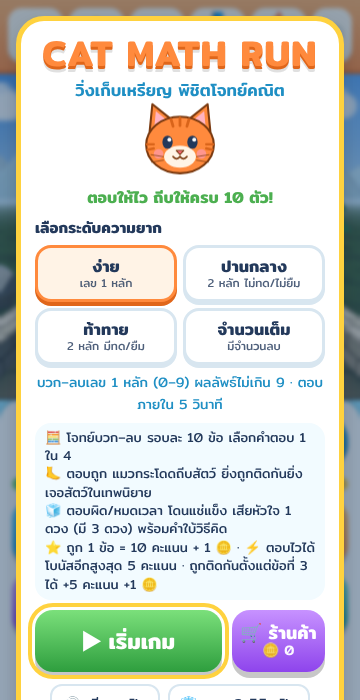
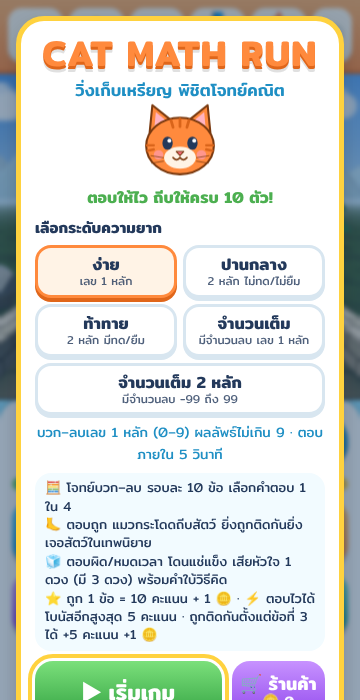
Add files via upload

Changed region(s): [[0.0611, 0.36, 0.9167, 1.0], [0.3972, 0.15, 0.6111, 0.27]]

diff --git a/index.html b/index.html
@@ -168,8 +168,11 @@
   @keyframes float{50%{transform:translateY(-8px)}}
   .tagline{margin:2px 0 8px; font-size:1.1rem; font-weight:600; color:var(--green)}
   .pick-label{font-weight:600; font-size:.95rem; margin:0 0 6px; text-align:left}
-  .levels{display:grid; grid-template-columns:repeat(4,1fr); gap:6px; margin:0 0 6px}
-  @media (max-width:420px){ .levels{grid-template-columns:repeat(2,1fr)} .level-btn{padding:6px 4px} }
+  /* 5 ระดับ: แถวบน 3 ปุ่ม (ง่าย/ปานกลาง/ท้าทาย) แถวล่าง 2 ปุ่ม (จำนวนเต็ม 1 หลัก/2 หลัก) */
+  .levels{display:grid; grid-template-columns:repeat(6,1fr); gap:6px; margin:0 0 6px}
+  .levels .level-btn{grid-column:span 2}
+  .levels .level-btn.int{grid-column:span 3}
+  @media (max-width:420px){ .levels{grid-template-columns:repeat(2,1fr)} .levels .level-btn,.levels .level-btn.int{grid-column:span 1; padding:6px 4px} .levels .level-btn.int.int2{grid-column:span 2} }
   .level-btn{
     border:3px solid #d8e6f0; background:#fff; border-radius:16px; padding:8px 4px; font-size:1.02rem; font-weight:600;
     color:var(--navy); line-height:1.25; box-shadow:0 3px 0 #d8e6f0;
@@ -412,7 +415,8 @@
         <button class="level-btn" type="button" data-level="easy" aria-pressed="true">ง่าย<small>เลข 1 หลัก</small></button>
         <button class="level-btn" type="button" data-level="medium" aria-pressed="false">ปานกลาง<small>2 หลัก ไม่ทด/ไม่ยืม</small></button>
         <button class="level-btn" type="button" data-level="hard" aria-pressed="false">ท้าทาย<small>2 หลัก มีทด/ยืม</small></button>
-        <button class="level-btn" type="button" data-level="integer" aria-pressed="false">จำนวนเต็ม<small>มีจำนวนลบ</small></button>
+        <button class="level-btn int" type="button" data-level="integer" aria-pressed="false">จำนวนเต็ม<small>มีจำนวนลบ เลข 1 หลัก</small></button>
+        <button class="level-btn int int2" type="button" data-level="integer2" aria-pressed="false">จำนวนเต็ม 2 หลัก<small>มีจำนวนลบ −99 ถึง 99</small></button>
       </div>
       <div class="level-desc" id="levelDesc"></div>
       <ul class="rules">
@@ -551,7 +555,9 @@
       medium:  { name: 'ปานกลาง',  detail: 'บวก–ลบเลข 2 หลัก ไม่มีการทด/ไม่มีการยืม ผลลัพธ์ไม่เกิน 99', time: 7000,  min: 0, max: 99 },
       hard:    { name: 'ท้าทาย',    detail: 'บวก–ลบเลข 2 หลัก มีการทด/มีการยืม ผลลัพธ์ไม่เกิน 99',     time: 10000, min: 0, max: 99 },
       // range = ขนาดสูงสุดของตัวเลขแต่ละตัว (−range ถึง range) ผลลัพธ์จึงอยู่ระหว่าง −2×range ถึง 2×range
-      integer: { name: 'จำนวนเต็ม', detail: 'บวก–ลบจำนวนเต็มบวกและลบ (−10 ถึง 10) เช่น (−5) + 3, 4 − (−6)', time: 8000, min: -20, max: 20, range: 10 }
+      integer: { name: 'จำนวนเต็ม', detail: 'บวก–ลบจำนวนเต็มบวกและลบ (−10 ถึง 10) เช่น (−5) + 3, 4 − (−6)', time: 8000, min: -20, max: 20, range: 10 },
+      // จำนวนเต็ม 2 หลัก: ตัวเลขทั้งสองตัวเป็นเลข 2 หลัก (ค่าสัมบูรณ์ 10–99) และคำตอบอยู่ระหว่าง −99 ถึง 99
+      integer2: { name: 'จำนวนเต็ม 2 หลัก', detail: 'บวก–ลบจำนวนเต็ม 2 หลัก (−99 ถึง 99) เช่น (−45) + 27, 38 − (−16)', time: 15000, min: -99, max: 99, range: 99, minAbs: 10 }
     }
   };
 
@@ -610,6 +616,9 @@
   ];
   function skinById(id) { for (var i = 0; i < CFG.SKINS.length; i++) if (CFG.SKINS[i].id === id) return CFG.SKINS[i]; return null; }
 
+  /** ระดับจำนวนเต็ม (มีจำนวนลบ) ทั้งแบบ 1 หลักและ 2 หลัก */
+  function isIntLevel(level) { return level === 'integer' || level === 'integer2'; }
+
   var STATE = { READY: 'READY', PLAYING: 'PLAYING', ANSWERED: 'ANSWERED', GAME_OVER: 'GAME_OVER', VICTORY: 'VICTORY' };
 
   /* =====================================================================
@@ -644,17 +653,21 @@
      * - hard  : ตัวตั้ง 10–99, ตัวบวก/ตัวลบ 1–99, ผลบวก ≤ 99, ต้องมีการทด / ต้องมีการยืม, ผลลบ ≥ 0
      * - integer: ตัวเลข −10 ถึง 10 ทุกข้อต้องมีจำนวนลบอย่างน้อย 1 จุด (ตัวตั้ง ตัวบวก/ตัวลบ หรือคำตอบ)
      *            ตัดโจทย์ที่ง่ายเกินไป: มี 0 เป็นตัวเลขตัวใดตัวหนึ่ง
+     * - integer2: ตัวตั้งและตัวบวก/ตัวลบเป็นเลข 2 หลัก (−99 ถึง −10 หรือ 10 ถึง 99) คำตอบ −99 ถึง 99
+     *            และทุกข้อต้องมีจำนวนลบอย่างน้อย 1 จุด
      */
     validPairs: function (level, op) {
       var key = level + op;
       if (MathCore.cache[key]) return MathCore.cache[key];
       var list = [], a, b;
-      if (level === 'integer') {
-        var R = CFG.LEVELS.integer.range;
+      if (isIntLevel(level)) {
+        var L = CFG.LEVELS[level], R = L.range, mA = L.minAbs || 1;
         for (a = -R; a <= R; a++) {
+          if (Math.abs(a) < mA) continue;
           for (b = -R; b <= R; b++) {
-            if (a === 0 || b === 0) continue;
+            if (Math.abs(b) < mA) continue;
             var ans = op === '+' ? a + b : a - b;
+            if (ans < L.min || ans > L.max) continue;
             if (a < 0 || b < 0 || ans < 0) list.push([a, b]);
           }
         }
@@ -699,7 +712,7 @@
         if (v !== Math.floor(v) || v < min || v > max || v === q.answer || Object.prototype.hasOwnProperty.call(kindOf, v)) return;
         kindOf[v] = kind; list.push(v);
       }
-      if (q.level === 'integer') {
+      if (isIntLevel(q.level)) {
         add(errs, -q.answer, 'sign');                                           // เครื่องหมายผิด
         var sb = q.op === '+' ? q.b : -q.b;                                     // เขียนใหม่เป็นการบวก: a + sb
         if ((q.a < 0) !== (sb < 0)) {                                           // เครื่องหมายต่างกัน แต่เอาค่ามาบวกกัน
@@ -725,7 +738,7 @@
         }
       }
       add(near, q.answer - 1, 'near'); add(near, q.answer + 1, 'near'); add(near, q.answer - 2, 'near'); add(near, q.answer + 2, 'near');
-      if (q.level === 'medium' || q.level === 'hard') { add(near, q.answer - 10, 'tens'); add(near, q.answer + 10, 'tens'); }
+      if (q.level === 'medium' || q.level === 'hard' || q.level === 'integer2') { add(near, q.answer - 10, 'tens'); add(near, q.answer + 10, 'tens'); }
       MathCore.shuffle(errs); MathCore.shuffle(near);
       var pick = errs.slice(0, Math.min(2, n));
       for (var i = 0; pick.length < n && i < near.length; i++) pick.push(near[i]);
@@ -834,7 +847,7 @@
     diagnose: function (q, kind) {
       switch (kind) {
         case 'near': return 'คำตอบคลาดไปเล็กน้อย ลองคิดทีละขั้นอีกครั้ง';
-        case 'tens': return 'หลักหน่วยถูกแล้ว แต่หลักสิบคลาดไป 10';
+        case 'tens': return 'หลักหน่วยถูกแล้ว แต่หลักสิบคลาดไป 10 ลองตรวจการทด/การยืมอีกครั้ง';
         case 'carry': return 'ลืมทด 1 ไปหลักสิบ';
         case 'place': return 'ตั้งหลักไม่ตรง: ' + q.b + ' อยู่หลักหน่วย ต้องบวกกับหลักหน่วย';
         case 'borrow': return 'หลักหน่วยลบไม่พอ ต้องยืม 1 สิบมาก่อน ไม่ใช่เอาเลขน้อยลบเลขมาก';
@@ -848,10 +861,21 @@
     },
     strategy: function (q) {
       var a = q.a, b = q.b, ans = q.answer;
-      if (q.level === 'integer') {
+      if (isIntLevel(q.level)) {
         var step = q.op === '+' ? b : -b;
         var pre = q.op === '-' ? 'ลบ ' + fmtTerm(b) + ' คือบวก ' + fmtTerm(-b) + ' · ' : '';
-        return pre + 'เริ่มที่ ' + fmtNum(a) + ' เดินไปทาง' + (step > 0 ? 'ขวา ' : 'ซ้าย ') + Math.abs(step) + ' ช่อง ถึง ' + fmtNum(ans);
+        if (q.level === 'integer') {
+          return pre + 'เริ่มที่ ' + fmtNum(a) + ' เดินไปทาง' + (step > 0 ? 'ขวา ' : 'ซ้าย ') + Math.abs(step) + ' ช่อง ถึง ' + fmtNum(ans);
+        }
+        // เลข 2 หลัก: ใช้กฎเครื่องหมาย (เดินทีละช่องบนเส้นจำนวนไม่สะดวก)
+        var x = Math.abs(a), y = Math.abs(step);
+        if ((a < 0) === (step < 0)) {
+          return pre + 'เครื่องหมายเหมือนกัน: รวมค่า ' + x + ' + ' + y + ' = ' + (x + y) + ' แล้วใช้เครื่องหมายเดิม (' + (a < 0 ? 'ลบ' : 'บวก') + ') → ' + fmtNum(ans);
+        }
+        if (x === y) return pre + 'ค่าเท่ากันแต่เครื่องหมายต่างกัน หักล้างกันได้ → ' + fmtNum(ans);
+        var bigV = x > y ? a : step;
+        return pre + 'เครื่องหมายต่างกัน: เอาค่ามากลบค่าน้อย ' + Math.max(x, y) + ' − ' + Math.min(x, y) + ' = ' + Math.abs(x - y) +
+          ' แล้วใช้เครื่องหมายของ ' + fmtNum(bigV) + ' เพราะอยู่ห่างจาก 0 มากกว่า → ' + fmtNum(ans);
       }
       if (q.level === 'easy') {
         if (q.op === '+') {
@@ -873,30 +897,53 @@
       if (ua < ub) return 'หลักหน่วย ' + ua + ' ลบ ' + ub + ' ไม่พอ ยืม 1 สิบ: ' + (ua + 10) + ' − ' + ub + ' = ' + (ua + 10 - ub) + ' · หลักสิบ ' + ta + ' − 1 − ' + tb + ' = ' + (ta - 1 - tb) + ' → ' + ans;
       return 'หลักหน่วย ' + ua + ' − ' + ub + ' = ' + (ua - ub) + ' · หลักสิบ ' + ta + ' − ' + tb + ' = ' + (ta - tb) + ' → ' + ans;
     },
-    /** เส้นจำนวน (SVG) สำหรับระดับจำนวนเต็ม: จุดเริ่ม ลูกศรเดิน และจุดคำตอบ */
+    /**
+     * เส้นจำนวน (SVG) สำหรับระดับจำนวนเต็ม: จุดเริ่ม ลูกศรเดิน และจุดคำตอบ
+     * เลข 1 หลักมีขีดทุก 1 ช่อง · ช่วงกว้าง (เลข 2 หลัก) มีขีดทุก 10 ช่อง
+     */
     numberLine: function (q) {
       var start = q.a, step = q.op === '+' ? q.b : -q.b, end = start + step;
-      var lo = Math.min(start, end, 0) - 1, hi = Math.max(start, end, 0) + 1;
-      while (hi - lo < 10) { lo--; if (hi - lo < 10) hi++; }
-      var W = 640, H = 96, pad = 22, dx = (W - pad * 2) / (hi - lo), y = 62;
-      function X(v) { return (pad + (v - lo) * dx).toFixed(1); }
+      var mn = Math.min(start, end, 0), mx = Math.max(start, end, 0), unit = mx - mn > 30 ? 10 : 1, lo, hi;
+      if (unit === 1) {
+        lo = mn - 1; hi = mx + 1;
+        while (hi - lo < 10) { lo--; if (hi - lo < 10) hi++; }
+      } else {
+        lo = Math.floor(mn / 10) * 10 - 10; hi = Math.ceil(mx / 10) * 10 + 10;
+      }
+      var W = 640, H = 120, pad = 22, dx = (W - pad * 2) / (hi - lo), y = 62;
+      function X(v) { return pad + (v - lo) * dx; }
       var out = '<svg viewBox="0 0 ' + W + ' ' + H + '" xmlns="http://www.w3.org/2000/svg" role="img" aria-label="เส้นจำนวน เริ่มที่ ' +
         speakNum(start) + ' เดิน ' + (step > 0 ? 'ไปทางขวา ' : 'ไปทางซ้าย ') + Math.abs(step) + ' ช่อง ถึง ' + speakNum(end) + '">';
       out += '<defs><marker id="nlArrow" viewBox="0 0 10 10" refX="8" refY="5" markerWidth="7" markerHeight="7" orient="auto-start-reverse">' +
         '<path d="M0 0 L10 5 L0 10 z" fill="#ff8a3d"/></marker></defs>';
       out += '<line x1="' + (pad - 8) + '" y1="' + y + '" x2="' + (W - pad + 8) + '" y2="' + y + '" stroke="#23395b" stroke-width="3"/>';
-      for (var v = lo; v <= hi; v++) {
-        var key = v === 0 || v === start || v === end, h = key ? 9 : 5;
-        out += '<line x1="' + X(v) + '" y1="' + (y - h) + '" x2="' + X(v) + '" y2="' + (y + h) + '" stroke="#23395b" stroke-width="' + (v === 0 ? 3 : 1.6) + '"/>';
-        if (key || v % 5 === 0) {
-          out += '<text x="' + X(v) + '" y="' + (y + 28) + '" font-size="' + (key ? 20 : 15) + '" font-weight="' + (key ? 700 : 400) +
-            '" text-anchor="middle" fill="' + (v === end ? '#2e9e3e' : '#23395b') + '">' + fmtNum(v) + '</text>';
+      // ป้ายของจุดสำคัญ (0, จุดเริ่ม, คำตอบ) ถ้าอยู่ใกล้กันเกินไปจะเลื่อนลงแถวที่สอง
+      var keys = [0, start, end].filter(function (v, i, arr) { return arr.indexOf(v) === i; }).sort(function (p, r) { return p - r; });
+      var keyX = keys.map(X), rows = [], lastX = [-1e9, -1e9];
+      for (var k = 0; k < keys.length; k++) {
+        var row = keyX[k] - lastX[0] >= 46 ? 0 : 1;
+        rows.push(row); lastX[row] = keyX[k];
+      }
+      for (var v = lo; v <= hi; v += unit) {
+        var h = v === 0 ? 9 : 5;
+        out += '<line x1="' + X(v).toFixed(1) + '" y1="' + (y - h) + '" x2="' + X(v).toFixed(1) + '" y2="' + (y + h) + '" stroke="#23395b" stroke-width="' + (v === 0 ? 3 : 1.6) + '"/>';
+        var nearKey = false;
+        for (var kk = 0; kk < keys.length; kk++) if (Math.abs(X(v) - keyX[kk]) < 34) nearKey = true;
+        if (!nearKey && v % (unit * 5) === 0) {
+          out += '<text x="' + X(v).toFixed(1) + '" y="' + (y + 28) + '" font-size="15" text-anchor="middle" fill="#5b6b80">' + fmtNum(v) + '</text>';
         }
       }
-      var x1 = +X(start), x2 = +X(end), mid = (x1 + x2) / 2;
-      out += '<path d="M' + x1 + ' ' + (y - 8) + ' Q' + mid.toFixed(1) + ' ' + (y - 58) + ' ' + x2 + ' ' + (y - 8) + '" fill="none" stroke="#ff8a3d" stroke-width="4" marker-end="url(#nlArrow)"/>';
+      for (var j = 0; j < keys.length; j++) {
+        var kv = keys[j];
+        if (kv !== 0 && kv !== start && kv !== end) continue;
+        out += '<line x1="' + keyX[j].toFixed(1) + '" y1="' + (y - 9) + '" x2="' + keyX[j].toFixed(1) + '" y2="' + (y + 9) + '" stroke="#23395b" stroke-width="' + (kv === 0 ? 3 : 2) + '"/>';
+        out += '<text x="' + keyX[j].toFixed(1) + '" y="' + (y + 28 + rows[j] * 24) + '" font-size="20" font-weight="700" text-anchor="middle" fill="' +
+          (kv === end ? '#2e9e3e' : '#23395b') + '">' + fmtNum(kv) + '</text>';
+      }
+      var x1 = X(start), x2 = X(end), mid = (x1 + x2) / 2;
+      out += '<path d="M' + x1.toFixed(1) + ' ' + (y - 8) + ' Q' + mid.toFixed(1) + ' ' + (y - 58) + ' ' + x2.toFixed(1) + ' ' + (y - 8) + '" fill="none" stroke="#ff8a3d" stroke-width="4" marker-end="url(#nlArrow)"/>';
       out += '<text x="' + mid.toFixed(1) + '" y="' + (y - 38) + '" font-size="18" font-weight="700" text-anchor="middle" fill="#e0661a">' + (step > 0 ? '+' : '−') + Math.abs(step) + '</text>';
-      out += '<circle cx="' + x1 + '" cy="' + y + '" r="8" fill="#23395b"/><circle cx="' + x2 + '" cy="' + y + '" r="9" fill="#2e9e3e" stroke="#fff" stroke-width="2"/>';
+      out += '<circle cx="' + x1.toFixed(1) + '" cy="' + y + '" r="8" fill="#23395b"/><circle cx="' + x2.toFixed(1) + '" cy="' + y + '" r="9" fill="#2e9e3e" stroke="#fff" stroke-width="2"/>';
       return out + '</svg>';
     }
   };
@@ -3196,7 +3243,7 @@
     var diag = kind === 'timeout' ? '⏰ หมดเวลา ลองใช้วิธีคิดนี้ในครั้งหน้า' : Hints.diagnose(q, kind);
     var html = (diag ? '<div class="hint-diag">💡 ' + diag + '</div>' : '') +
       '<div class="hint-step"><b>วิธีคิด:</b> ' + Hints.strategy(q) + '</div>';
-    if (q.level === 'integer') html += Hints.numberLine(q);
+    if (isIntLevel(q.level)) html += Hints.numberLine(q);
     el.hintBox.innerHTML = html;      // ข้อความสร้างจากตัวเลขในเกมเท่านั้น
     el.hintBox.hidden = false;
   }
@@ -3643,7 +3690,7 @@
    * 12.6) สรุปสำหรับครู + ส่งออกข้อมูลรายข้อ (CSV)
    * ===================================================================== */
   var resetArmed = false, resetTimer = null;
-  var LEVEL_ORDER = ['easy', 'medium', 'hard', 'integer'];
+  var LEVEL_ORDER = ['easy', 'medium', 'hard', 'integer', 'integer2'];
 
   function openTeacher() {
     if (game.state !== STATE.READY) return;
@@ -3807,7 +3854,7 @@
    * ===================================================================== */
   function selfTest(rounds) {
     rounds = rounds || 1000;
-    var errors = [], levels = ['easy', 'medium', 'hard', 'integer'];
+    var errors = [], levels = ['easy', 'medium', 'hard', 'integer', 'integer2'];
     for (var li = 0; li < levels.length; li++) {
       var lv = levels[li], min = CFG.LEVELS[lv].min, max = CFG.LEVELS[lv].max;
       for (var r = 0; r < rounds; r++) {
@@ -3819,9 +3866,9 @@
           var real = q.op === '+' ? q.a + q.b : q.a - q.b;
           if (real !== q.answer) errors.push('คำตอบผิด ' + tag);
           if (q.answer < min || q.answer > max) errors.push('คำตอบเกินช่วง ' + tag);
-          if (lv === 'integer') {
-            var RR = CFG.LEVELS.integer.range;
-            if (q.a < -RR || q.a > RR || q.b < -RR || q.b > RR || q.a === 0 || q.b === 0) errors.push('ตัวเลขไม่อยู่ในช่วง ' + tag);
+          if (isIntLevel(lv)) {
+            var RR = CFG.LEVELS[lv].range, MA = CFG.LEVELS[lv].minAbs || 1;
+            if (Math.abs(q.a) > RR || Math.abs(q.b) > RR || Math.abs(q.a) < MA || Math.abs(q.b) < MA) errors.push('ตัวเลขไม่อยู่ในช่วง ' + tag);
             if (!(q.a < 0 || q.b < 0 || q.answer < 0)) errors.push('ไม่มีจำนวนลบ ' + tag);
           } else if (lv === 'easy') {
             if (q.a < 0 || q.a > 9 || q.b < 0 || q.b > 9) errors.push('ไม่ใช่เลข 1 หลัก ' + tag);
@@ -3841,7 +3888,7 @@
           }
           var stg = Hints.strategy(q);
           if (!stg || stg.slice(-fmtNum(q.answer).length - 1) !== ' ' + fmtNum(q.answer)) errors.push('วิธีคิดไม่ลงท้ายด้วยคำตอบ ' + tag + ' → ' + stg);
-          if (lv === 'integer' && Hints.numberLine(q).indexOf('>' + fmtNum(q.answer) + '<') === -1) errors.push('เส้นจำนวนไม่แสดงคำตอบ ' + tag);
+          if (isIntLevel(lv) && Hints.numberLine(q).indexOf('>' + fmtNum(q.answer) + '<') === -1) errors.push('เส้นจำนวนไม่แสดงคำตอบ ' + tag);
           var rq = MathCore.retryOf(q);
           if (rq.answer !== q.answer || rq.choices[rq.correctIndex] !== q.answer || new Set(rq.choices).size !== CFG.CHOICES) errors.push('โจทย์ทวนไม่ถูกต้อง ' + tag);
         }
@@ -3862,7 +3909,13 @@
       var got = AutoTime.next('easy', at[ai][0], at[ai][1], at[ai][2]);
       if (got !== at[ai][3]) errors.push('AutoTime ' + at[ai].slice(0, 3).join('/') + ' ควรได้ ' + at[ai][3] + ' แต่ได้ ' + got);
     }
-    if (AutoTime.next('hard', 10000, 10, 10) !== 9000 || AutoTime.next('integer', 8000, 2, 10) !== 8800) errors.push('AutoTime ระดับอื่นคำนวณผิด');
+    if (AutoTime.next('hard', 10000, 10, 10) !== 9000 || AutoTime.next('integer', 8000, 2, 10) !== 8800 || AutoTime.next('integer2', 15000, 10, 10) !== 13500) errors.push('AutoTime ระดับอื่นคำนวณผิด');
+    // ระดับจำนวนเต็ม 2 หลัก: มีโจทย์ครบทุกแบบเครื่องหมาย (ยกเว้นบวก+บวก ซึ่งไม่มีจำนวนลบ)
+    var kindsSeen = {};
+    ['+', '-'].forEach(function (op) {
+      MathCore.validPairs('integer2', op).forEach(function (p) { kindsSeen[op + (p[0] < 0 ? 'n' : 'p') + (p[1] < 0 ? 'n' : 'p')] = 1; });
+    });
+    if (Object.keys(kindsSeen).length !== 7 || kindsSeen['+pp']) errors.push('ระดับจำนวนเต็ม 2 หลักมีรูปแบบเครื่องหมายไม่ครบ ' + Object.keys(kindsSeen).join(','));
     if (CFG.CREATURES.length !== CFG.TOTAL_Q) errors.push('จำนวนสัตว์ควรเท่ากับจำนวนข้อ (' + CFG.TOTAL_Q + ')');
     if (CFG.SKINS.length !== 11) errors.push('ควรมีสกิน 11 แบบ (ฟรี 1 + ร้านค้า 10)');
     for (var si = 1; si < CFG.SKINS.length; si++) {

diff --git a/README.md b/README.md
@@ -22,14 +22,14 @@ https://<ชื่อผู้ใช้ GitHub>.github.io/<ชื่อ reposito
 
 - ฉาก 3 มิติด้วย WebGL ที่เขียนขึ้นเองทั้งหมด จึงไม่ต้องโหลดไลบรารีหรือรูปภาพจากภายนอก
 - ถ้าอุปกรณ์ไม่รองรับ 3 มิติ เกมจะสลับเป็นฉาก 2 มิติให้อัตโนมัติ
-- เลือกระดับความยากได้ 4 ระดับ
+- เลือกระดับความยากได้ 5 ระดับ รวมจำนวนเต็ม (มีจำนวนลบ) ทั้งเลข 1 หลักและ 2 หลัก
 - รอบละ 10 ข้อ มีหัวใจ 3 ดวง ระบบคะแนน เหรียญ Streak และเอฟเฟกต์ COMBO / PERFECT RUN
 - ตอบถูก = แมวกระโดดถีบสัตว์ · ตอบผิด/หมดเวลา = โดนแช่แข็งชั่วครู่ แล้ววิ่งต่อ
 - สัตว์วิ่งเข้าหาแมวตามเวลาที่เหลือ ช่วยให้เด็กรู้สึกถึงเวลาโดยไม่ต้องดูตัวเลข
 - ร้านค้าสกินแมว 10 แบบ ซื้อด้วยเหรียญสะสม
 - **4 ตัวเลือกต่อข้อ** ตัวเลือกผิด 3 ตัวสร้างจากความผิดพลาดที่นักเรียนทำบ่อย เช่น ลืมทด ไม่ยืม ตั้งหลักผิด หรือเครื่องหมายผิด
 - **คำใบ้วิธีคิดทุกระดับ** เมื่อตอบผิด เกมบอกว่าตัวเลือกที่เลือกน่าจะมาจากความผิดพลาดแบบใด และแสดงวิธีคิดทีละขั้น
-- **เส้นจำนวน** ในคำใบ้ของระดับจำนวนเต็ม
+- **เส้นจำนวน** ในคำใบ้ของระดับจำนวนเต็ม (เลข 2 หลักใช้เส้นจำนวนช่วงละ 10 พร้อมกฎเครื่องหมาย)
 - **โบนัสตอบไว** ยิ่งตอบถูกเร็ว ยิ่งได้คะแนนเพิ่ม
 - **สถิติส่วนตัว** หน้าจบรอบแสดงเวลาเฉลี่ยข้อที่ตอบถูก เทียบกับสถิติดีที่สุดและครั้งก่อน ให้นักเรียนพยายามทำลายสถิติตัวเอง
 - **ตั้งค่าสำหรับครู** เลือกเวลาต่อข้อได้ 5 แบบ (ตามระดับ, ปรับอัตโนมัติ, เพิ่มเวลา ×1.5, ×2, ไม่จับเวลา) เปิดการทวนข้อที่ผิด และตั้งเป้าหมายร่วมของห้อง
@@ -43,6 +43,7 @@ https://<ชื่อผู้ใช้ GitHub>.github.io/<ชื่อ reposito
 | ปานกลาง | บวก–ลบเลข 2 หลัก ไม่มีการทด/ยืม | 43 + 25, 87 − 34 | 7 วินาที |
 | ท้าทาย | บวก–ลบเลข 2 หลัก มีการทด/ยืม | 47 + 38, 82 − 14 | 10 วินาที |
 | จำนวนเต็ม | บวก–ลบจำนวนเต็ม −10 ถึง 10 | (−5) + 3, 4 − (−6) | 8 วินาที |
+| จำนวนเต็ม 2 หลัก | บวก–ลบจำนวนเต็มที่เป็นเลข 2 หลักทั้งสองตัว คำตอบอยู่ระหว่าง −99 ถึง 99 | (−45) + 27, 38 − (−16) | 15 วินาที |
 
 **กติกาคะแนน (เหมือนกันทุกระดับ)**
 - ตอบถูก 1 ข้อได้ 10 คะแนนและ 1 เหรียญ
@@ -183,6 +184,7 @@ https://<ชื่อผู้ใช้ GitHub>.github.io/<ชื่อ reposito
 | `CFG.CREATURES` | ชื่อและอีโมจิของสัตว์ 10 ชนิด |
 | `CFG.FREEZE_TIME` | เวลาที่โดนแช่แข็ง (วินาที) |
 | `LEVELS.integer.range` | ช่วงตัวเลขของระดับจำนวนเต็ม ถ้าเปลี่ยน ให้แก้ `min` และ `max` เป็น ±2 เท่าของค่านี้ด้วย |
+| `LEVELS.integer2` | ระดับจำนวนเต็ม 2 หลัก: `minAbs` = ค่าสัมบูรณ์ต่ำสุดของตัวเลข (10), `range` = สูงสุด (99), `min`/`max` = ช่วงของคำตอบ |
 
 ## 🧪 การทดสอบ
 
